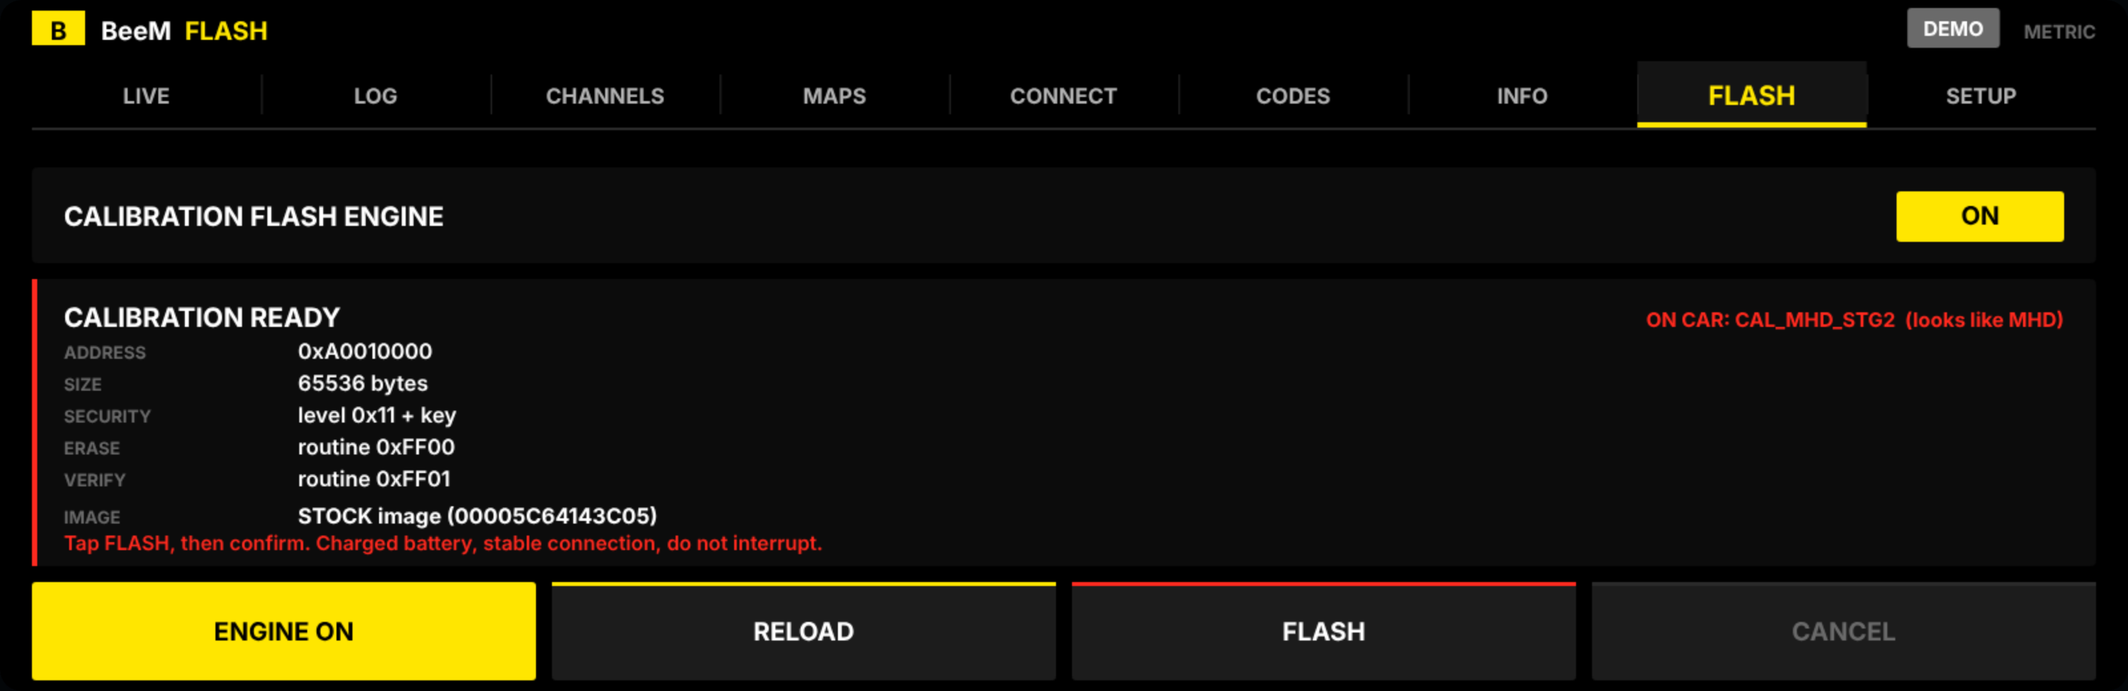
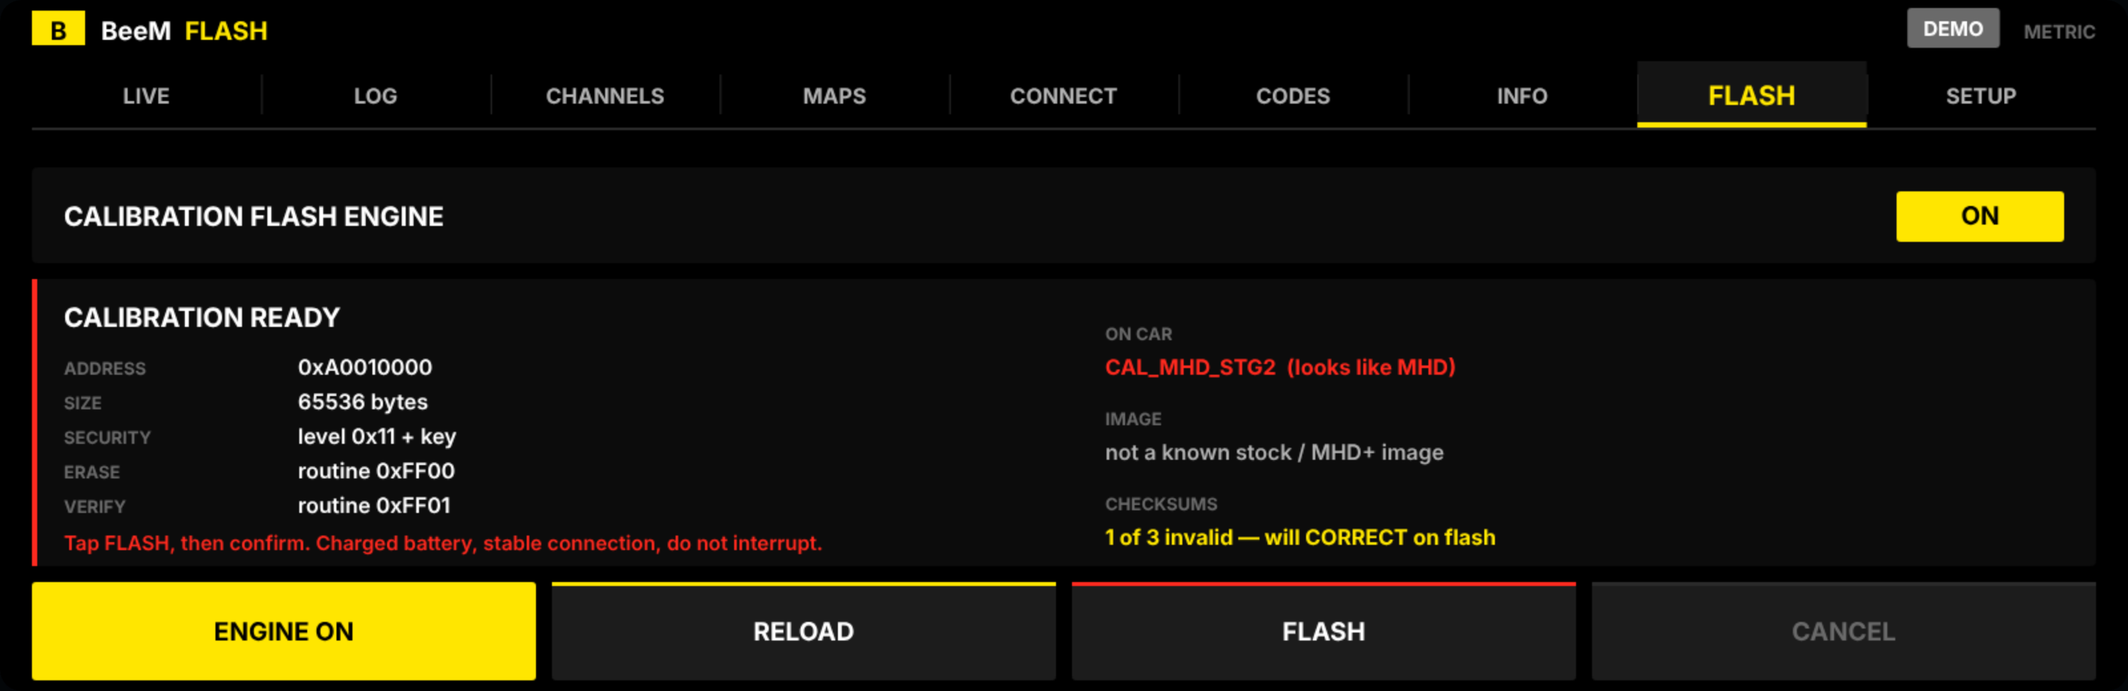
v2.6.0: checksum check + correction before flashing
A modified calibration must have valid internal checksums or the DME rejects it.
BeeM-Flash now checks them on load and corrects (or refuses) before writing.

- apps/wali_datalog/checksum.js: a pluggable checksum engine — CRC-32, CRC-16
  (CCITT-FALSE / XMODEM / MODBUS or custom poly/init/refin/refout/xorout),
  additive sum16/sum32, xor8, and additive-complement (sumcomp). Validated
  against the standard CRC test vectors ("123456789"). check(bin, scheme) and
  correct(bin, scheme) over a declarative, owner-supplied scheme (blocks: algo +
  byte ranges + store location/endian). Nothing MG1-specific is bundled — the
  exact layout is DME-specific and supplied via the descriptor `checksum` or
  config.checksum.
- flash.flashCalibration: if a scheme is supplied, verifies checksums first; if
  invalid, corrects them (opts.correctChecksums, default on via the descriptor)
  or REFUSES to flash. The corrected bytes are what get written; the result
  reports whether checksums were corrected.
- flashrun + Flash tab: the loaded calibration's checksum status is shown
  (valid / N of M invalid — will correct / blocked), alongside the image
  fingerprint and the on-car tune, in a clean two-column layout.
- Verification: 326 tests pass (CRC vectors; scheme check/correct incl.
  sum-complement and non-mutation; flash refuses invalid, corrects-then-flashes
  with the DME receiving the corrected CRC32, and flashes a valid cal untouched).
[…]

diff --git a/apps/wali_datalog/checksum.js b/apps/wali_datalog/checksum.js
@@ -1,0 +1,126 @@
+'use strict';
+//
+// checksum.js — pluggable calibration checksum CHECK and CORRECTION.
+//
+// A modified calibration must have its internal checksums recomputed, or the DME
+// rejects it (or won't run). This engine provides the standard algorithms
+// (CRC-32, CRC-16 variants, additive sums, XOR, and additive-complement) and
+// runs them over a DECLARATIVE scheme the owner supplies for their DME —
+// addresses + algorithm — exactly like keys and cal data. Nothing is bundled:
+// the exact MG1 checksum layout is DME-specific and the owner provides it (from
+// their tuning tool / A2L / community). The engine is standard and verifiable.
+//
+// A scheme is: { blocks: [ Block, … ] }, where each Block is:
+//   { name, algo: 'crc32'|'crc16'|'sum16'|'sum32'|'xor8'|'sumcomp',
+//     ranges: [[start,end], …]          // byte ranges (end exclusive) covered
+//     store:  { at, size, endian },     // where/how the checksum is stored
+//     params: { … } }                   // algo params (crc poly/init…, or target)
+// `ranges` must NOT include the `store` bytes (a checksum never covers itself).
+//
+
+// ---- generic CRC (configurable, so CRC-32 and the CRC-16 family share code) --
+function reflect(v, n) { var r = 0; for (var i = 0; i < n; i++) { if (v & (1 << i)) r |= (1 << (n - 1 - i)); } return r >>> 0; }
+function crc(bytes, width, poly, init, refin, refout, xorout) {
+  var msb = (width === 32) ? 0x80000000 : (1 << (width - 1));
+  var mask = (width === 32) ? 0xFFFFFFFF : ((1 << width) - 1);
+  var v = init >>> 0;
+  for (var i = 0; i < bytes.length; i++) {
+    var b = bytes[i] & 0xff;
+    if (refin) b = reflect(b, 8);
+    v = (v ^ (b * (width === 32 ? 0x1000000 : 0x100))) >>> 0; // b << (width-8)
+    v = v & mask;
+    for (var k = 0; k < 8; k++) {
+      if (v & msb) v = ((v * 2) ^ poly) >>> 0; else v = (v * 2) >>> 0;
+      v = v & mask;
+    }
+  }
+  if (refout) v = reflect(v, width);
+  return ((v ^ xorout) >>> 0) & mask;
+}
+
+var PRESETS = {
+  crc32: { width: 32, poly: 0x04C11DB7, init: 0xFFFFFFFF, refin: true, refout: true, xorout: 0xFFFFFFFF },
+  crc16: { width: 16, poly: 0x1021, init: 0xFFFF, refin: false, refout: false, xorout: 0x0000 }, // CCITT-FALSE default
+  crc16ccitt: { width: 16, poly: 0x1021, init: 0x0000, refin: false, refout: false, xorout: 0x0000 }, // XMODEM
+  crc16modbus: { width: 16, poly: 0x8005, init: 0xFFFF, refin: true, refout: true, xorout: 0x0000 }
+};
+function crcWith(bytes, preset, params) {
+  var p = {}; var i; for (i in preset) p[i] = preset[i];
+  if (params) for (i in params) if (params.hasOwnProperty(i)) p[i] = params[i];
+  return crc(bytes, p.width, p.poly >>> 0, p.init >>> 0, !!p.refin, !!p.refout, p.xorout >>> 0);
+}
+
+// Gather the bytes a block covers.
+function gather(bin, ranges) {
+  var out = [];
+  for (var r = 0; r < ranges.length; r++) {
+    var a = ranges[r][0], b = ranges[r][1];
+    for (var i = a; i < b; i++) out.push(bin[i] & 0xff);
+  }
+  return out;
+}
+
+function sumOf(bytes) { var s = 0; for (var i = 0; i < bytes.length; i++) s = (s + (bytes[i] & 0xff)) >>> 0; return s >>> 0; }
+function xorOf(bytes) { var x = 0; for (var i = 0; i < bytes.length; i++) x ^= (bytes[i] & 0xff); return x & 0xff; }
+function maskOf(size) { return size >= 4 ? 0xFFFFFFFF : ((1 << (size * 8)) - 1) >>> 0; }
+
+// Compute a block's checksum value (the value that should be stored).
+function compute(bin, block) {
+  var bytes = gather(bin, block.ranges || []), p = block.params || {};
+  switch (block.algo) {
+    case 'crc32': return crcWith(bytes, PRESETS.crc32, p) >>> 0;
+    case 'crc16': return crcWith(bytes, PRESETS[p.preset || 'crc16'] || PRESETS.crc16, p) & 0xffff;
+    case 'sum16': return sumOf(bytes) & 0xffff;
+    case 'sum32': return sumOf(bytes) >>> 0;
+    case 'xor8': return xorOf(bytes) & 0xff;
+    case 'sumcomp': { // stored so that (sum(ranges) + stored) & mask === target
+      var size = (block.store && block.store.size) || 4, mask = maskOf(size);
+      var target = (p.target != null ? p.target : 0) >>> 0;
+      return ((target - sumOf(bytes)) & mask) >>> 0;
+    }
+    default: return null;
+  }
+}
+
+function readStore(bin, store) {
+  var at = store.at, size = store.size || 4, le = (store.endian || 'le') === 'le', v = 0;
+  for (var i = 0; i < size; i++) { var byte = bin[at + (le ? i : (size - 1 - i))] & 0xff; v = (v + byte * Math.pow(256, i)) ; }
+  return v >>> 0;
+}
+function writeStore(bin, store, value) {
+  var at = store.at, size = store.size || 4, le = (store.endian || 'le') === 'le';
+  for (var i = 0; i < size; i++) { var byte = Math.floor(value / Math.pow(256, i)) & 0xff; bin[at + (le ? i : (size - 1 - i))] = byte; }
+}
+
+// check(bin, scheme) -> { ok, blocks:[{name, computed, stored, ok}] }
+function check(bin, scheme) {
+  var blocks = (scheme && scheme.blocks) || [], out = [], allOk = true;
+  for (var i = 0; i < blocks.length; i++) {
+    var bl = blocks[i], computed = compute(bin, bl);
+    if (computed == null) { out.push({ name: bl.name, ok: false, error: 'unknown algo ' + bl.algo }); allOk = false; continue; }
+    var stored = readStore(bin, bl.store), ok = (computed >>> 0) === (stored >>> 0);
+    if (bl.algo === 'sumcomp') {
+      var mask = maskOf((bl.store && bl.store.size) || 4);
+      var target = ((bl.params && bl.params.target) || 0) >>> 0;
+      ok = (((sumOf(gather(bin, bl.ranges)) + stored) & mask) >>> 0) === target;
+    }
+    if (!ok) allOk = false;
+    out.push({ name: bl.name, computed: computed >>> 0, stored: stored >>> 0, ok: ok });
+  }
+  return { ok: allOk, blocks: out, count: blocks.length };
+}
+
+// correct(bin, scheme) -> { bin(new copy), changed:[{name, from, to}], blocks }
+function correct(bin, scheme) {
+  var copy = bin.slice(), blocks = (scheme && scheme.blocks) || [], changed = [];
+  for (var i = 0; i < blocks.length; i++) {
+    var bl = blocks[i], value = compute(copy, bl);
+    if (value == null) continue;
+    var before = readStore(copy, bl.store);
+    writeStore(copy, bl.store, value >>> 0);
+    if ((before >>> 0) !== (value >>> 0)) changed.push({ name: bl.name, from: before >>> 0, to: value >>> 0 });
+  }
+  return { bin: copy, changed: changed, check: check(copy, scheme) };
+}
+
+module.exports = { crc: crc, crcWith: crcWith, PRESETS: PRESETS, compute: compute, check: check, correct: correct, readStore: readStore, writeStore: writeStore };

diff --git a/test/run.js b/test/run.js
@@ -523,6 +523,27 @@ function makeFakeDiscoverySocket(respond) {
   ok(vr.match === false && /^[0-9a-f]{64}$/.test(vr.sha256), 'binverify: unknown image -> no match, reports its hash');
 })();
 
+// ---- checksum engine: CRC vectors + check/correct --------------------------
+(function () {
+  var cs = require(A + 'checksum');
+  var s = '123456789'.split('').map(function (c) { return c.charCodeAt(0); });
+  eq(cs.crcWith(s, cs.PRESETS.crc32) >>> 0, 0xCBF43926, 'checksum: CRC32 standard vector');
+  eq(cs.crcWith(s, cs.PRESETS.crc16modbus) & 0xffff, 0x4B37, 'checksum: CRC16/MODBUS vector');
+  eq(cs.crcWith(s, cs.PRESETS.crc16ccitt) & 0xffff, 0x31C3, 'checksum: CRC16/XMODEM vector');
+  // scheme: crc32 over [0,16) stored LE at 16
+  var bin = []; for (var i = 0; i < 20; i++) bin.push(i);
+  var scheme = { blocks: [{ name: 'cal', algo: 'crc32', ranges: [[0, 16]], store: { at: 16, size: 4, endian: 'le' } }] };
+  ok(cs.check(bin, scheme).ok === false, 'checksum: detects an invalid checksum');
+  var cor = cs.correct(bin, scheme);
+  ok(cor.check.ok && cor.changed.length === 1, 'checksum: correction makes the bin valid');
+  eq(cs.readStore(cor.bin, scheme.blocks[0].store) >>> 0, cs.crcWith(bin.slice(0, 16), cs.PRESETS.crc32) >>> 0, 'checksum: stored value is the CRC32');
+  ok(bin[16] === 16, 'checksum: correct() does not mutate the original bin');
+  // additive complement: sum(range) + stored == target
+  var bin2 = [10, 20, 30, 40, 0, 0, 0, 0];
+  var sc = { blocks: [{ name: 's', algo: 'sumcomp', ranges: [[0, 4]], store: { at: 4, size: 4, endian: 'le' }, params: { target: 0x10000 } }] };
+  ok(cs.correct(bin2, sc).check.ok, 'checksum: sum-complement correction is valid');
+})();
+
 // ---- OBD-II source: PID decode + both boost PIDs (additional source) --------
 (function () {
   var obd = require(A + 'obd');
@@ -1059,6 +1080,32 @@ Promise.resolve()
       // read-only: ecuinfo issues only 0x22 requests
       var onlyReads = sim.log.every(function (r) { return r[0] === uds.SID.READ_DID; });
       ok(onlyReads, 'ecuinfo: only ReadDataByIdentifier (0x22) issued — read-only');
+    });
+  })
+  .then(function () {
+    // ---- flashing with checksum check + correction -------------------------
+    var flash = require(A + 'flash');
+    var cs = require(A + 'checksum');
+    var EcuSim = require('./ecusim').EcuSim;
+    var cal = []; for (var i = 0; i < 64; i++) cal.push((i * 5 + 1) & 0xff);
+    cal = cal.concat([0, 0, 0, 0]); // 4-byte checksum slot (currently wrong)
+    var scheme = { blocks: [{ name: 'cal', algo: 'crc32', ranges: [[0, 64]], store: { at: 64, size: 4, endian: 'le' } }] };
+    // without correction -> refuse to flash an invalid calibration
+    return flash.flashCalibration(new EcuSim().transport(), { acknowledged: true, data: cal, address: 0xA0000000, checksum: scheme }).then(function (r) {
+      ok(r.ok === false && /checksums are INVALID/i.test(r.message), 'flash: refuses a calibration with invalid checksums');
+      // with correction -> corrects, then flashes; the DME receives the fixed bytes
+      var sim = new EcuSim({ maxBlock: 40 });
+      return flash.flashCalibration(sim.transport(), { acknowledged: true, data: cal, address: 0xA0000000, checksum: scheme, correctChecksums: true }).then(function (r2) {
+        ok(r2.ok === true && r2.checksum && r2.checksum.corrected, 'flash: corrects checksums then flashes');
+        var expect = cs.crcWith(cal.slice(0, 64), cs.PRESETS.crc32) >>> 0;
+        eq(cs.readStore(sim.flashed, { at: 64, size: 4, endian: 'le' }) >>> 0, expect, 'flash: DME received the corrected CRC32');
+        // a valid calibration flashes with no correction needed
+        var good = cs.correct(cal, scheme).bin;
+        var sim2 = new EcuSim({ maxBlock: 40 });
+        return flash.flashCalibration(sim2.transport(), { acknowledged: true, data: good, address: 0xA0000000, checksum: scheme }).then(function (r3) {
+          ok(r3.ok === true && r3.checksum && r3.checksum.corrected === false, 'flash: a valid calibration flashes without correction');
+        });
+      });
     });
   })
   .then(function () {

diff --git a/apps/wali_datalog/flash.js b/apps/wali_datalog/flash.js
@@ -26,6 +26,7 @@
 //
 var uds = require('./uds');
 var seedkey = require('./seedkey');
+var checksum = require('./checksum');
 
 // flashCalibration(send, opts, onProgress) -> Promise<{ ok, confirmed, message, steps }>
 //   opts (all caller-supplied; nothing defaulted to a real ECU):
@@ -53,6 +54,22 @@ function flashCalibration(send, opts, onProgress) {
   if (typeof send !== 'function') return Promise.resolve(fail('No diagnostic transport available.'));
 
   var data = opts.data;
+  // Checksum safety: a modified calibration must have valid internal checksums or
+  // the DME rejects it. If a checksum scheme is supplied, verify them first; if
+  // they are wrong, correct them (when allowed) or REFUSE to flash.
+  var csResult = null;
+  if (opts.checksum && opts.checksum.blocks && opts.checksum.blocks.length) {
+    var chk = checksum.check(data, opts.checksum);
+    if (chk.ok) { csResult = { ok: true, corrected: false }; note('checksum ok'); }
+    else if (opts.correctChecksums) {
+      var cor = checksum.correct(data, opts.checksum);
+      if (!cor.check.ok) return Promise.resolve(fail('Checksum correction failed to produce a valid calibration — check the scheme (config.checksum).'));
+      data = cor.bin; csResult = { ok: true, corrected: true, changed: cor.changed.length };
+      note('checksum corrected (' + cor.changed.length + ')');
+    } else {
+      return Promise.resolve(fail('Calibration checksums are INVALID (' + chk.blocks.filter(function (b) { return !b.ok; }).length + ' of ' + chk.count + '). Enable checksum correction or fix the file before flashing.'));
+    }
+  }
   var size = opts.size || data.length;
   var session = opts.session || 0x02;          // programmingSession
   var addrBytes = opts.addrBytes || 4, sizeBytes = opts.sizeBytes || 4;
@@ -118,11 +135,12 @@ function flashCalibration(send, opts, onProgress) {
     return sa(uds.buildEcuReset(opts.reset || 0x01), uds.SID.ECU_RESET).then(function () { return verify; });
   }).then(function (verify) {
     var confirmed = !!verify.confirmed;
+    var csNote = csResult && csResult.corrected ? ' (checksums corrected)' : (csResult ? ' (checksums ok)' : '');
     return {
-      ok: true, confirmed: confirmed, steps: steps,
-      message: confirmed
-        ? ('Calibration flashed and verified (' + size + ' bytes).')
-        : ('Calibration flashed (' + size + ' bytes), but ' + (opts.checkRid == null ? 'no verify routine was configured' : ('the DME did not confirm it' + (verify.checkMsg ? ': ' + verify.checkMsg : ''))) + ' — confirm the car starts and runs correctly before driving.')
+      ok: true, confirmed: confirmed, steps: steps, checksum: csResult,
+      message: (confirmed
+        ? ('Calibration flashed and verified (' + size + ' bytes)' + csNote + '.')
+        : ('Calibration flashed (' + size + ' bytes)' + csNote + ', but ' + (opts.checkRid == null ? 'no verify routine was configured' : ('the DME did not confirm it' + (verify.checkMsg ? ': ' + verify.checkMsg : ''))) + ' — confirm the car starts and runs correctly before driving.'))
     };
   }).catch(function (e) {
     var where = steps.length ? steps[steps.length - 1] : 'start';

diff --git a/apps/wali_datalog/screens.js b/apps/wali_datalog/screens.js
@@ -447,23 +447,33 @@ function flash(cv, t, view, R) {
   }
   var d = f.descriptor;
   cv.text('CALIBRATION READY', R.x + 24, py + 36, 24, t.text, { weight: 'bold' });
-  // what's on the car now (so you confirm you're flashing the right base)
-  if (f.tune) {
-    var oc = (f.tune.detected || f.tune.modified === true);
-    cv.text('ON CAR: ' + (f.tune.calId || '—') + (f.tune.detected ? '  (looks like ' + f.tune.detected + ')' : ''), R.x + R.w - 24, py + 36, 18, oc ? t.crit : t.dim, { align: 'r', weight: oc ? 'bold' : 'normal' });
-  }
+  // left column: the write parameters
   var rows = [['Address', d.addressHex || '—'], ['Size', (d.size || 0) + ' bytes'], ['Security', d.security || 'none'],
     ['Erase', d.erase || 'none'], ['Verify', d.verify || 'none']];
   for (var i = 0; i < rows.length; i++) {
-    var yy = py + 60 + i * 24;
+    var yy = py + 72 + i * 26;
     cv.text(rows[i][0].toUpperCase(), R.x + 24, yy, 15, t.faint, { weight: 'bold' });
     cv.text(rows[i][1], R.x + 200, yy, 19, t.text, {});
   }
-  // image fingerprint — is this calibration a known stock / MHD+ image?
+  // right column: what's on the car, the image fingerprint, and checksum status
+  var rx = R.x + Math.round(R.w * 0.52);
+  if (f.tune) {
+    var oc = (f.tune.detected || f.tune.modified === true);
+    cv.text('ON CAR', rx, py + 46, 15, t.faint, { weight: 'bold' });
+    cv.text((f.tune.calId || '—') + (f.tune.detected ? '  (looks like ' + f.tune.detected + ')' : ''), rx, py + 72, 19, oc ? t.crit : t.dim, { weight: oc ? 'bold' : 'normal' });
+  }
   if (d.fingerprint) {
     var fk = d.fingerprint.kind, fcol = (fk === 'stock') ? t.text : (fk === 'mhdplus' ? t.accent : t.dim);
-    cv.text('IMAGE', R.x + 24, py + 184, 15, t.faint, { weight: 'bold' });
-    cv.text(d.fingerprint.text, R.x + 200, py + 184, 19, fcol, { weight: fk ? 'bold' : 'normal' });
+    cv.text('IMAGE', rx, py + 110, 15, t.faint, { weight: 'bold' });
+    cv.text(d.fingerprint.text, rx, py + 136, 19, fcol, { weight: fk ? 'bold' : 'normal' });
+  }
+  if (d.checksum) {
+    var cz = d.checksum, czText, czCol;
+    if (cz.ok) { czText = 'valid (' + cz.count + ' block' + (cz.count === 1 ? '' : 's') + ')'; czCol = t.text; }
+    else if (cz.correct) { czText = cz.bad + ' of ' + cz.count + ' invalid — will CORRECT on flash'; czCol = t.accent; }
+    else { czText = cz.bad + ' of ' + cz.count + ' INVALID — correction off (flash blocked)'; czCol = t.crit; }
+    cv.text('CHECKSUMS', rx, py + 174, 15, t.faint, { weight: 'bold' });
+    cv.text(czText, rx, py + 200, 19, czCol, { weight: cz.ok ? 'normal' : 'bold' });
   }
   if (f.result) cv.text(f.result.message, R.x + 24, py + ph - 12, 18, f.result.ok ? (f.result.confirmed ? t.good : t.accent) : t.crit, { weight: 'bold' });
   else cv.text('Tap FLASH, then confirm. Charged battery, stable connection, do not interrupt.', R.x + 24, py + ph - 12, 18, t.crit, {});

diff --git a/apps/wali_datalog/flashrun.js b/apps/wali_datalog/flashrun.js
@@ -16,6 +16,7 @@
 //
 var flash = require('./flash');
 var binverify = require('./binverify');
+var checksum = require('./checksum');
 
 function parseHex(s) {
   var h = String(s).replace(/[^0-9a-fA-F]/g, ''), out = [];
@@ -38,6 +39,18 @@ function loadDescriptor(storage) {
   var norm = flash.normalizeDescriptor(desc, data);
   if (norm.error) return { ok: false, error: norm.error, status: norm.error };
   var o = norm.opts;
+  // Checksum scheme (owner-supplied) — verify now so the UI can show status, and
+  // carry it + the correct-on-flash flag into the flash options.
+  var csInfo = null;
+  if (desc.checksum && desc.checksum.blocks && desc.checksum.blocks.length) {
+    o.checksum = desc.checksum;
+    o.correctChecksums = (desc.correctChecksums !== false); // default: correct on flash
+    try {
+      var chk = checksum.check(data, desc.checksum);
+      var bad = chk.blocks.filter(function (b) { return !b.ok; }).length;
+      csInfo = { ok: chk.ok, count: chk.count, bad: bad, correct: o.correctChecksums };
+    } catch (e) { csInfo = { ok: false, error: 'checksum scheme invalid' }; }
+  }
   // Fingerprint the calibration being loaded, so the UI can say whether you are
   // about to flash a known STOCK image, a known MHD+ base, or an unknown/custom
   // calibration. (Most useful when the data is a full DME image.)
@@ -48,7 +61,8 @@ function loadDescriptor(storage) {
     security: (o.securityLevel != null) ? ('level 0x' + o.securityLevel.toString(16) + (o.keyFn ? ' + key' : '')) : 'none',
     erase: (o.eraseRid != null) ? ('routine 0x' + o.eraseRid.toString(16)) : 'none',
     verify: (o.checkRid != null) ? ('routine 0x' + o.checkRid.toString(16)) : 'none',
-    fingerprint: fp ? { kind: fp.kind, id: fp.id, match: fp.match, text: binverify.describe(fp) } : null
+    fingerprint: fp ? { kind: fp.kind, id: fp.id, match: fp.match, text: binverify.describe(fp) } : null,
+    checksum: csInfo
   };
   return { ok: true, descriptor: info, opts: o };
 }

diff --git a/runtime/web/index.html b/runtime/web/index.html
@@ -75,7 +75,9 @@
     { module: { name: 'EGS (transmission)' }, ok: true, dtcs: [ { code: 'P17BA', status: { confirmed: true } } ] },
     { module: { name: 'DSC (stability / brakes)' }, ok: true, dtcs: [ { code: 'C0501', status: { confirmed: true } } ] },
     { module: { name: 'EPS (steering)' }, ok: false, dtcs: [] } ] };
-  var SAMPLE_DESC = { addressHex: '0xA0010000', size: 65536, security: 'level 0x11 + key', erase: 'routine 0xFF00', verify: 'routine 0xFF01', fingerprint: { kind: 'stock', id: '00005C64143C05', match: true, text: 'STOCK image (00005C64143C05)' } };
+  var SAMPLE_DESC = { addressHex: '0xA0010000', size: 65536, security: 'level 0x11 + key', erase: 'routine 0xFF00', verify: 'routine 0xFF01',
+    fingerprint: { kind: null, match: false, text: 'not a known stock / MHD+ image' },
+    checksum: { ok: false, count: 3, bad: 1, correct: true } };
   var SAMPLE_TUNE = { calId: 'CAL_MHD_STG2', programmingDate: '2023-09-01', detected: 'MHD', modified: true, note: 'Signature match — looks like MHD.' };
   function readInfo(app) { app.info.done = true; app.info.tune = SAMPLE_TUNE; return app; }
 

diff --git a/apps/wali_datalog/main.js b/apps/wali_datalog/main.js
@@ -757,6 +757,9 @@ App.prototype._flashRun = function () {
   this.flash.running = true; this.flash.progress = 0; this.flash.step = 'starting'; this.flash.result = null;
   var opts = {}; for (var k in this.flash.opts) opts[k] = this.flash.opts[k];
   opts.acknowledged = true;
+  // A checksum scheme can also come from app.json config (not just the descriptor).
+  var cfg = this._config();
+  if (!opts.checksum && cfg.checksum) { opts.checksum = cfg.checksum; opts.correctChecksums = (cfg.correctChecksums !== false); }
   return gw.activate().then(function () {
     return flash.flashCalibration(function (b) { return gw.send(b); }, opts, function (step) {
       self.flash.step = step;

diff --git a/docs/FLASHING.md b/docs/FLASHING.md
@@ -140,6 +140,43 @@ a calibration you have read out of the car to confirm, byte-for-byte, whether th
 car is running stock. (Fingerprints cover full DME images; a partial calibration
 section won't match a full-image hash.)
 
+## Checksums — checked and corrected before flashing
+
+A modified calibration must have its internal checksums recomputed, or the DME
+rejects it (or won't run). If you supply a **checksum scheme** (in the descriptor
+as `checksum`, or in `config.checksum`), BeeM-Flash:
+
+1. **checks** the calibration's checksums when it loads it (the Flash tab shows
+   `valid` / `N of M invalid`), and
+2. before writing, **corrects** them when correction is enabled (the default), or
+   **refuses to flash** an invalid calibration when it is not — so you never
+   write a cal the ECU will reject.
+
+The scheme is owner-supplied (nothing is bundled — the exact MG1 layout is
+DME-specific; get it from your tuning tool / A2L / community). It is a list of
+blocks; each names an algorithm, the byte ranges it covers (which must **not**
+include the checksum's own bytes), and where the value is stored:
+
+```json
+{
+  "checksum": {
+    "blocks": [
+      { "name": "cal", "algo": "crc32",
+        "ranges": [[1052672, 2097148]],
+        "store": { "at": 2097148, "size": 4, "endian": "le" } }
+    ]
+  },
+  "correctChecksums": true
+}
+```
+
+Algorithms: `crc32`, `crc16` (`params.preset` = `crc16`/`crc16ccitt`/`crc16modbus`,
+or your own `poly`/`init`/`refin`/`refout`/`xorout`), `sum16`, `sum32`, `xor8`,
+and `sumcomp` (additive complement to `params.target`). The CRC engine is the
+standard one (validated against the usual CRC-32 / CRC-16 test vectors). The
+read-out verifier (`binverify`) and this checksum engine are complementary:
+one confirms the whole image, the other keeps the ECU's own integrity checks valid.
+
 ## Before you flash — a checklist
 
 - **Right section, right address.** A calibration written to the wrong address,

diff --git a/CHANGELOG.md b/CHANGELOG.md
@@ -18,6 +18,16 @@ UI: one canvas screen with internal paging driven by four HMI bar buttons
 
 ## Beta 2 — v2.x.x
 
+### v2.6.0
+- **Checksum check + correction before flashing** — a new `checksum` engine
+  (standard CRC-32, CRC-16 CCITT/XMODEM/MODBUS, additive sum/xor and
+  additive-complement, validated against the usual CRC test vectors). When a
+  checksum scheme is supplied (descriptor `checksum` or `config.checksum`), the
+  Flash tab shows the calibration's checksum status on load, and before writing
+  the flasher **corrects** the checksums (default) or **refuses to flash** an
+  invalid calibration — so you never write a cal the DME would reject. The scheme
+  (algorithm + regions) is owner-supplied; nothing MG1-specific is bundled.
+
 ### v2.5.0  (all additive — nothing removed)
 - **Smaller fonts** — every screen's text is scaled down uniformly (default 0.85,
   `config.fontScale`) so nothing overlaps or runs off the head-unit screen.
